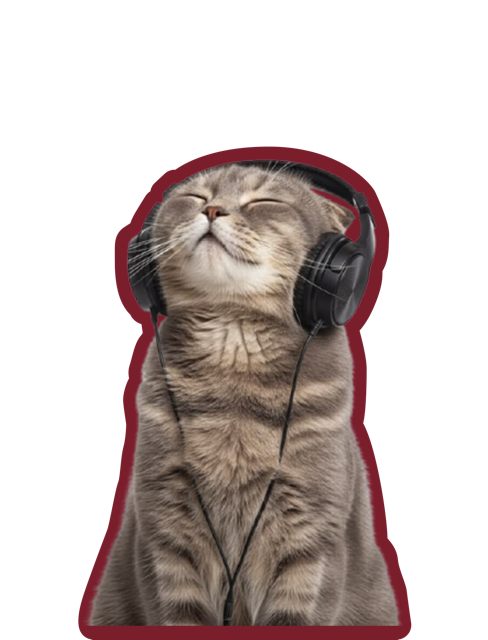
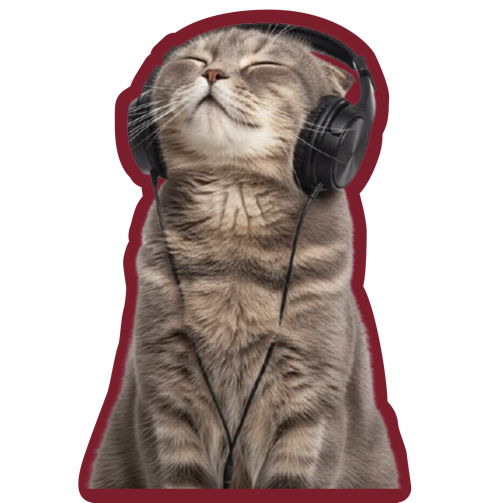
update speaking club

diff --git a/app/components/sections/home/HomeSpeakingClubSection.vue b/app/components/sections/home/HomeSpeakingClubSection.vue
@@ -1,21 +1,9 @@
 <script setup lang="ts">
-import { computed } from 'vue'
-import UiButtonLink from '~/components/ui/UiButtonLink.vue'
-import UiNoteCard from '~/components/ui/UiNoteCard.vue'
+import HomeSpeakingClubBody from '~/components/sections/home/HomeSpeakingClubBody.vue'
 import UiSticker from '~/components/ui/UiSticker.vue'
 import UiWatermark from '~/components/ui/UiWatermark.vue'
-import type { CtaContext } from '~/data/content'
 
-const { locale } = useLocale()
 const { t } = useI18n()
-const telegramContext = computed<CtaContext>(() => ({
-  path: 'speaking-club',
-  format: 'speaking-club',
-  sourceRoute: 'section',
-  locale: locale.value,
-  messageIntent: 'ask_program'
-}))
-const { url: telegramTarget, trackTelegramClick } = useTelegramCta(telegramContext)
 </script>
 
 <template>
@@ -27,27 +15,16 @@ const { url: telegramTarget, trackTelegramClick } = useTelegramCta(telegramConte
         <span class="speaking-club__script">{{ t('homeSections.speakingClub.scriptWord') }}</span>
       </h2>
 
-      <div class="speaking-club__collage">
+      <!-- Poster layout: cat cutout on the left, the club promise body on the right. -->
+      <div class="speaking-club__layout">
         <UiSticker
           class="speaking-club__sticker"
           src="/images/home/sticker-cat.png"
           :width="488"
-          :height="640"
-          :rotate="-3"
+          :height="440"
         />
-        <UiNoteCard class="speaking-club__note" :text="t('homeSections.speakingClub.noteText')" />
+        <HomeSpeakingClubBody class="speaking-club__body" />
       </div>
-
-      <p class="speaking-club__line">{{ t('homeSections.speakingClub.line') }}</p>
-      <UiButtonLink
-        class="speaking-club__cta"
-        :href="telegramTarget"
-        external
-        variant="secondary"
-        @click="trackTelegramClick"
-      >
-        {{ t('homeSections.speakingClub.telegramCta') }}
-      </UiButtonLink>
     </div>
   </section>
 </template>
@@ -59,7 +36,6 @@ const { url: telegramTarget, trackTelegramClick } = useTelegramCta(telegramConte
   @apply relative bg-page py-section text-text;
 }
 
-/* Tight vertical stack: headline → sticker/note collage → line → button read as one unit. */
 .speaking-club__container {
   @apply relative mx-auto flex w-full max-w-6xl flex-col items-center gap-component-gap px-page-gutter text-center;
 }
@@ -81,21 +57,16 @@ const { url: telegramTarget, trackTelegramClick } = useTelegramCta(telegramConte
   @apply text-poster-script sm:text-poster-script-sm lg:text-poster-script-lg;
 }
 
-/* Collage anchored to the lockup: the cat tucks up under the headline baseline
-   and the note leans against it instead of floating in the stack. */
-.speaking-club__collage {
-  @apply -mt-2 flex flex-wrap items-center justify-center gap-x-component-gap gap-y-control-compact;
+/* Stacked on mobile, cat-beside-body from lg where the poster proportions hold. */
+.speaking-club__layout {
+  @apply lg:mt-16 flex w-full flex-col items-center justify-center gap-component-gap sm:flex-row lg:items-center lg:gap-0;
 }
 
 .speaking-club__sticker {
-  @apply w-48 sm:w-64;
+  @apply w-56 shrink-0 sm:w-72 lg:w-96;
 }
 
-.speaking-club__note {
-  @apply -ml-6 sm:-ml-10;
-}
-
-.speaking-club__line {
-  @apply max-w-2xl text-body text-text-muted;
+.speaking-club__body {
+  @apply lg:flex-1;
 }
 </style>

diff --git a/app/components/sections/home/HomeSpeakingClubBody.vue b/app/components/sections/home/HomeSpeakingClubBody.vue
@@ -1,0 +1,91 @@
+<script setup lang="ts">
+import { ChatBubble, Telegram } from '@iconoir/vue'
+import { computed } from 'vue'
+import UiButtonLink from '~/components/ui/UiButtonLink.vue'
+import type { CtaContext } from '~/data/content'
+
+const { locale } = useLocale()
+const { t } = useI18n()
+
+const telegramContext = computed<CtaContext>(() => ({
+  path: 'speaking-club',
+  format: 'speaking-club',
+  sourceRoute: 'section',
+  locale: locale.value,
+  messageIntent: 'ask_program'
+}))
+const { url: telegramTarget, trackTelegramClick } = useTelegramCta(telegramContext)
+</script>
+
+<template>
+  <div class="club-body">
+    <!-- Framed callout: speech bubble + poster-voice promise, echoing the SPEAKING club post. -->
+    <div class="club-body__frame">
+      <ChatBubble class="club-body__glyph" :width="44" :height="44" aria-hidden="true" />
+      <p class="club-body__eyebrow">{{ t('homeSections.speakingClub.bodyEyebrow') }}</p>
+    </div>
+
+    <i18n-t
+      keypath="homeSections.speakingClub.bodyText"
+      tag="p"
+      class="club-body__text"
+      scope="global"
+    >
+      <template #brand>
+        <strong class="club-body__brand">{{ t('homeSections.speakingClub.bodyBrand') }}</strong>
+      </template>
+    </i18n-t>
+
+    <UiButtonLink
+      class="club-body__cta"
+      :href="telegramTarget"
+      external
+      variant="secondary"
+      @click="trackTelegramClick"
+    >
+      <span class="club-body__cta-inner">
+        <Telegram class="club-body__cta-icon" :width="18" :height="18" aria-hidden="true" />
+        {{ t('homeSections.speakingClub.telegramCta') }}
+      </span>
+    </UiButtonLink>
+  </div>
+</template>
+
+<style scoped>
+@reference "~/assets/css/tailwind.css";
+
+/* Right-hand column of the Speaking club lockup: the club promise, spoken plainly. */
+.club-body {
+  @apply flex w-full max-w-xl flex-col items-center gap-8 text-center;
+}
+
+.club-body__frame {
+  @apply flex flex-col items-center max-w-xs gap-4 border-4 border-accent-burgundy p-4 text-accent-burgundy sm:px-4;
+}
+
+.club-body__glyph {
+  @apply text-accent-burgundy;
+}
+
+/* Poster headline inside the frame — the emphatic beat of the callout. */
+.club-body__eyebrow {
+  @apply text-balance font-display text-card-title font-bold leading-tight tracking-display text-accent-burgundy;
+}
+
+.club-body__text {
+  @apply text-body text-text-muted;
+}
+
+.club-body__brand {
+  @apply font-semibold text-accent-burgundy;
+}
+
+/* Keep the Telegram glyph and label locked on one baseline. */
+.club-body__cta-inner {
+  @apply flex items-center gap-2;
+}
+
+.club-body__cta-icon {
+  @apply shrink-0;
+}
+</style>

diff --git a/app/components/ui/UiLockupHeading.vue b/app/components/ui/UiLockupHeading.vue
@@ -73,7 +73,7 @@ if (import.meta.dev && props.script && /[Ѐ-ӿ]/.test(props.script)) {
 }
 
 .lockup-script {
-  @apply font-script text-lockup-script font-normal text-accent-burgundy;
+  @apply font-script text-lockup-script font-normal text-accent-burgundy mb-4;
 }
 
 .lockup-caps {
